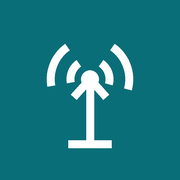
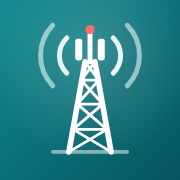
Нов дизайн: илюстрация на базова станция, нова икона, по-изчистени карти
- Начален екран с илюстрация (кула със сектори, радиорелейна връзка, сервизен бус), светла и тъмна версия
- Нова икона на приложението и знак в заглавието
- Фон с фина мрежа като на карта, по-меки карти, стрелка към обекта в режим „До мен“
- Илюстрация при празен резултат, радар при зареждане
- Без промени във функционалността

Claude-Session: https://claude.ai/code/session_01X5Ty6dojPMFwfPVWJ4GSS7

diff --git a/index.html b/index.html
@@ -20,7 +20,9 @@
   --waze:#0b7fa8; --waze-soft:#e2f2f8; --danger:#b3261e; --danger-soft:#fbe7e6; --warn:#8a5a00; --warn-soft:#fdf1d8;
   --p0:#c8323a; --p0s:#fbe9ea; --p1:#4b4fb4; --p1s:#ebebfa; --p2:#9a5b00; --p2s:#fbefdc;
   --p3:#2f7d32; --p3s:#e5f3e6; --p4:#a23a8a; --p4s:#f7e6f3; --p5:#4f6475; --p5s:#e8edf1;
-  --hl:#fff1b8; --scrim:rgba(12,18,24,.45);
+  --hl:#fff1b8; --scrim:rgba(12,18,24,.45); --dot:rgba(10,110,120,.07);
+  --il-sky1:#cfe9ec; --il-sky2:#f2f9fa; --il-sun:#ffd88a; --il-cloud:#ffffff; --il-hill2:#cbe1df; --il-hill1:#b2d2ce;
+  --il-city:#a7c5c2; --il-win:#eef7f6; --il-tower:#2f3d49; --il-tower2:#6d8391; --il-ant:#1c2731; --il-road:#8fb0ac; --il-shadow:rgba(20,40,50,.18);
   --shadow:0 1px 2px rgba(20,30,45,.05),0 2px 8px rgba(20,30,45,.04);
   --sans:-apple-system,BlinkMacSystemFont,"SF Pro Text","Segoe UI",Roboto,"Helvetica Neue",Arial,sans-serif;
   --mono:ui-monospace,"SF Mono",SFMono-Regular,Menlo,Consolas,monospace;
@@ -32,11 +34,14 @@
   --waze:#5cc3e6; --waze-soft:#14303b; --danger:#ff8a80; --danger-soft:#3a1a18; --warn:#f2c46b; --warn-soft:#3a2d10;
   --p0:#ff7b80; --p0s:#3a1d20; --p1:#a3a6ff; --p1s:#24254a; --p2:#f0b45a; --p2s:#3a2a12;
   --p3:#7fd283; --p3s:#183a1b; --p4:#f08fd8; --p4s:#3a1734; --p5:#a9bccb; --p5s:#26313a;
-  --hl:#5a4a10; --scrim:rgba(0,0,0,.6); --shadow:none; color-scheme:dark}}
+  --hl:#5a4a10; --scrim:rgba(0,0,0,.6); --shadow:none; --dot:rgba(120,200,210,.06);
+  --il-sky1:#0d2a31; --il-sky2:#141f27; --il-sun:#e8e2c6; --il-cloud:#22323b; --il-hill2:#18302f; --il-hill1:#1e3a3b;
+  --il-city:#25454b; --il-win:#e9c46a; --il-tower:#c3d2db; --il-tower2:#7d95a2; --il-ant:#e4eef4; --il-road:#35575c; --il-shadow:rgba(0,0,0,.45);
+  color-scheme:dark}}
 *{box-sizing:border-box}
 [hidden]{display:none!important}
 html{-webkit-text-size-adjust:100%}
-body{margin:0;background:var(--bg);color:var(--fg);font:16px/1.45 var(--sans);-webkit-font-smoothing:antialiased;min-height:100vh}
+body{margin:0;background-color:var(--bg);background-image:radial-gradient(var(--dot) 1.2px,transparent 1.3px);background-size:22px 22px;color:var(--fg);font:16px/1.45 var(--sans);-webkit-font-smoothing:antialiased;min-height:100vh}
 body::before{content:"";position:fixed;inset:0 0 auto;height:env(safe-area-inset-top,0px);z-index:10;background:var(--surface)}
 .wrap{max-width:720px;margin:0 auto}
 button{font-family:inherit}
@@ -44,8 +49,10 @@ button{font-family:inherit}
 header{position:sticky;top:0;z-index:5;background:var(--surface);border-bottom:1px solid var(--line);
   padding-top:calc(env(safe-area-inset-top,0px) + 10px);padding-bottom:10px;padding-left:max(16px,env(safe-area-inset-left,0px));padding-right:max(16px,env(safe-area-inset-right,0px))}
 .brand{display:flex;align-items:center;gap:10px;margin-bottom:10px}
-.mark{width:30px;height:30px;border-radius:8px;background:var(--accent);color:var(--accent-ink);display:grid;place-items:center;flex:none}
-.brand h1{font-size:18px;font-weight:700;margin:0;letter-spacing:-.01em}
+.mark{width:34px;height:34px;border-radius:10px;background:linear-gradient(150deg,var(--accent),color-mix(in srgb,var(--accent) 70%,#1fb5a8));color:var(--accent-ink);display:grid;place-items:center;flex:none;box-shadow:0 2px 8px color-mix(in srgb,var(--accent) 35%,transparent)}
+.mark .wv{animation:wv 2.6s ease-out infinite}.mark .w2{animation-delay:.35s}
+.brand h1{font-size:19px;font-weight:750;margin:0;letter-spacing:-.02em;line-height:1.1}
+.brand h1 small{display:block;font-size:11.5px;font-weight:500;letter-spacing:.02em;color:var(--muted)}
 #info{margin-left:auto;font-size:12.5px;color:var(--muted);font-variant-numeric:tabular-nums;text-align:right}
 #info b{color:var(--fg);font-weight:600}
 .iconbtn{width:38px;height:38px;border-radius:10px;border:1px solid var(--line);background:var(--surface);color:var(--fg);display:grid;place-items:center;cursor:pointer;flex:none}
@@ -74,6 +81,16 @@ header{position:sticky;top:0;z-index:5;background:var(--surface);border-bottom:1
 .nearbar b{font-family:var(--mono);font-weight:600}
 .nearbar button{margin-left:auto;flex:none;border:0;background:var(--surface);color:var(--fg);font:600 13px var(--sans);padding:7px 10px;border-radius:8px;cursor:pointer}
 .nearbar.err{background:var(--warn-soft)}
+.nearbar.live svg{animation:ping 1.8s ease-out infinite}
+@keyframes ping{0%{transform:scale(.85);opacity:.6}50%{transform:scale(1.08);opacity:1}100%{transform:scale(.85);opacity:.6}}
+@keyframes wv{0%{opacity:0}25%{opacity:1}100%{opacity:0}}
+@keyframes bl{0%,55%{opacity:.12}65%{opacity:.95}100%{opacity:.12}}
+@keyframes ln{to{stroke-dashoffset:-16}}
+@keyframes bob{0%,100%{transform:translateY(0)}50%{transform:translateY(-4px)}}
+.ill .wv{animation:wv 2.6s ease-out infinite}.ill .w2{animation-delay:.4s}.ill .w3{animation-delay:.8s}
+.ill .blink{animation:bl 2.2s linear infinite}.ill .link{animation:ln 1.1s linear infinite}
+.ill .pin{animation:bob 3s ease-in-out infinite;transform-box:fill-box;transform-origin:center}
+.spin.radar{border:2px solid currentColor;border-radius:50%;position:relative;animation:none;background:conic-gradient(from 0deg,transparent 0 70%,color-mix(in srgb,currentColor 55%,transparent) 100%);animation:sp 1.4s linear infinite}
 .nearbar.err svg{color:var(--warn)}
 .banner{display:flex;gap:10px;align-items:flex-start;margin-top:10px;padding:10px 12px;border-radius:10px;background:var(--warn-soft);font-size:13.5px;color:var(--fg)}
 .banner button{margin-left:auto;border:0;background:transparent;color:var(--muted);font-size:13px;cursor:pointer;flex:none}
@@ -81,10 +98,12 @@ header{position:sticky;top:0;z-index:5;background:var(--surface);border-bottom:1
 main{padding-top:14px;padding-bottom:calc(28px + env(safe-area-inset-bottom,0px));padding-left:max(16px,env(safe-area-inset-left,0px));padding-right:max(16px,env(safe-area-inset-right,0px))}
 #list{display:flex;flex-direction:column;gap:10px}
 
-.c{background:var(--surface);border:1px solid var(--line);border-radius:14px;padding:14px 14px 12px;box-shadow:var(--shadow);display:flex;flex-direction:column;gap:8px;min-width:0}
+.c{background:var(--surface);border:1px solid var(--line);border-radius:16px;padding:14px 14px 12px;box-shadow:var(--shadow);display:flex;flex-direction:column;gap:8px;min-width:0;transition:box-shadow .2s,border-color .2s}
+@media (hover:hover){.c:hover{border-color:color-mix(in srgb,var(--accent) 30%,var(--line));box-shadow:0 4px 18px rgba(15,40,50,.08)}}
+.dirx{display:inline-block;vertical-align:-2px;margin-right:2px}
 .c.origin{border-color:var(--accent);box-shadow:0 0 0 1px var(--accent)}
 .t{display:flex;align-items:center;gap:10px;min-width:0}
-.id{font:600 13.5px/1 var(--mono);letter-spacing:.02em;padding:6px 8px;border-radius:7px;background:var(--fg);color:var(--surface);flex:none}
+.id{font:600 13.5px/1 var(--mono);letter-spacing:.02em;padding:6px 8px 6px 7px;border-radius:7px;background:var(--fg);color:var(--surface);flex:none;display:inline-flex;align-items:center;gap:5px}
 .nm{font-weight:600;font-size:17px;letter-spacing:-.005em;min-width:0;overflow-wrap:anywhere;flex:1}
 .more-btn{flex:none;width:32px;height:32px;margin:-4px -6px -4px 0;border:0;background:transparent;color:var(--muted);border-radius:8px;cursor:pointer;display:grid;place-items:center}
 .more-btn:hover{background:var(--surface-2)}
@@ -127,17 +146,21 @@ textarea.inp{min-height:76px;resize:vertical;font:15px/1.4 var(--sans)}
 .b{display:flex;gap:8px;margin-top:4px;padding-top:10px;border-top:1px dashed var(--line)}
 .b a,.b button{display:inline-flex;align-items:center;justify-content:center;gap:7px;flex:1;text-decoration:none;font:600 15px/1 var(--sans);padding:12px 8px;border-radius:10px;border:0;cursor:pointer}
 .b a:active,.b button:active{transform:scale(.98)}
-.gm{background:var(--accent);color:var(--accent-ink)}
+.gm{background:linear-gradient(160deg,var(--accent),color-mix(in srgb,var(--accent) 80%,#000));color:var(--accent-ink)}
 .wz{background:var(--waze-soft);color:var(--waze)}
 .cp{flex:0 0 46px!important;background:transparent;border:1px solid var(--line)!important;color:var(--muted)}
 .cp.ok{color:var(--accent);border-color:var(--accent)!important}
 .more{display:block;width:100%;padding:13px;border:1px dashed var(--line);border-radius:12px;background:transparent;color:var(--fg);font:600 15px var(--sans);cursor:pointer}
 a:focus-visible,button:focus-visible{outline:2px solid var(--accent);outline-offset:2px}
 
-.empty{text-align:center;color:var(--muted);padding:48px 12px;display:flex;flex-direction:column;align-items:center;gap:10px}
+.empty{text-align:center;color:var(--muted);padding:36px 12px;display:flex;flex-direction:column;align-items:center;gap:8px}
+.empty svg.ill{width:150px;height:auto;margin-bottom:4px}
 .empty strong{color:var(--fg);font-size:16px}
-.welcome{background:var(--surface);border:1px solid var(--line);border-radius:16px;padding:22px 18px;display:flex;flex-direction:column;gap:14px}
-.welcome h2{margin:0;font-size:21px;letter-spacing:-.01em;text-wrap:balance}
+.welcome{background:var(--surface);border:1px solid var(--line);border-radius:20px;padding:0 18px 20px;display:flex;flex-direction:column;gap:14px;overflow:hidden;box-shadow:var(--shadow)}
+.hero{margin:0 -18px;display:block;line-height:0;border-bottom:1px solid var(--line)}
+.hero svg{width:100%;height:auto;display:block}
+.eyebrow{font:600 11.5px/1 var(--sans);letter-spacing:.12em;text-transform:uppercase;color:var(--accent);margin-top:6px}
+.welcome h2{margin:-6px 0 0;font-size:24px;letter-spacing:-.02em;line-height:1.15;text-wrap:balance}
 .welcome p{margin:0;color:var(--muted);font-size:14.5px}
 .lock{display:flex;gap:10px;align-items:flex-start;font-size:13.5px;color:var(--muted);background:var(--surface-2);border-radius:10px;padding:10px 12px}
 .lock svg{flex:none;color:var(--accent);margin-top:1px}
@@ -223,7 +246,7 @@ select.inp{background-image:linear-gradient(45deg,transparent 50%,var(--muted) 5
 .toast button{border:0;background:transparent;color:var(--accent-soft);font:700 14.5px var(--sans);cursor:pointer;padding:0}
 .spin{width:18px;height:18px;border:2.5px solid currentColor;border-right-color:transparent;border-radius:50%;animation:sp .8s linear infinite}
 @keyframes sp{to{transform:rotate(360deg)}}
-@media (prefers-reduced-motion:reduce){*{transition:none!important;animation-duration:2s!important}}
+@media (prefers-reduced-motion:reduce){*{transition:none!important;animation:none!important}.ill .wv,.mark .wv{opacity:.6}}
 </style>
 </head>
 <body>
@@ -231,9 +254,9 @@ select.inp{background-image:linear-gradient(45deg,transparent 50%,var(--muted) 5
   <div class="wrap">
     <div class="brand">
       <div class="mark" aria-hidden="true">
-        <svg width="18" height="18" viewBox="0 0 24 24" fill="none" stroke="currentColor" stroke-width="2" stroke-linecap="round" stroke-linejoin="round"><path d="M12 10v12"/><path d="M8.5 22h7"/><path d="M9 13l3-3 3 3"/><path d="M7.8 5.8a6 6 0 0 0 0 8.4"/><path d="M16.2 5.8a6 6 0 0 1 0 8.4"/><path d="M5 3a10 10 0 0 0 0 14"/><path d="M19 3a10 10 0 0 1 0 14"/><circle cx="12" cy="10" r="1.2" fill="currentColor"/></svg>
+        <svg width="22" height="22" viewBox="0 0 24 24" fill="none" stroke="currentColor" stroke-width="1.7" stroke-linecap="round" stroke-linejoin="round"><path d="M8.6 22 11 8.5M15.4 22 13 8.5M9.3 18.2h5.4M9.9 14.4h4.2M9.3 18.2l4.8-3.8M14.7 18.2l-4.8-3.8M10.5 10.9h3"/><path d="M12 8.5V4" stroke-width="1.9"/><rect x="9.6" y="5" width="1.6" height="4" rx=".5" fill="currentColor" stroke="none"/><rect x="12.8" y="5" width="1.6" height="4" rx=".5" fill="currentColor" stroke="none"/><path class="wv" d="M16.6 4.2a4.6 4.6 0 0 1 0 5.6M7.4 4.2a4.6 4.6 0 0 0 0 5.6"/><path class="wv w2" d="M19.2 2.4a8 8 0 0 1 0 9.2M4.8 2.4a8 8 0 0 0 0 9.2"/></svg>
       </div>
-      <h1>Обекти</h1>
+      <h1>Обекти<small>Базови станции · карта на терен</small></h1>
       <div id="info" aria-live="polite"></div>
       <button class="iconbtn" id="menuBtn" type="button" aria-label="База и импорт">
         <svg width="20" height="20" viewBox="0 0 24 24" fill="none" stroke="currentColor" stroke-width="2" stroke-linecap="round"><ellipse cx="12" cy="5.5" rx="7.5" ry="2.8"/><path d="M4.5 5.5v6.5c0 1.5 3.4 2.8 7.5 2.8s7.5-1.3 7.5-2.8V5.5"/><path d="M4.5 12v6.5c0 1.5 3.4 2.8 7.5 2.8s7.5-1.3 7.5-2.8V12"/></svg>
@@ -242,7 +265,7 @@ select.inp{background-image:linear-gradient(45deg,transparent 50%,var(--muted) 5
     <div class="searchrow">
       <div class="field">
         <svg class="s" width="18" height="18" viewBox="0 0 24 24" fill="none" stroke="currentColor" stroke-width="2.2" stroke-linecap="round"><circle cx="11" cy="11" r="7"/><path d="m20 20-3.5-3.5"/></svg>
-        <input id="q" type="search" placeholder="Номер, име или адрес…" autocomplete="off" autocapitalize="off" spellcheck="false" inputmode="search" aria-label="Търсене">
+        <input id="q" type="search" placeholder="Номер, име, адрес…" autocomplete="off" autocapitalize="off" spellcheck="false" inputmode="search" aria-label="Търсене">
         <button id="clr" type="button" aria-label="Изчисти" hidden><svg width="16" height="16" viewBox="0 0 24 24" fill="none" stroke="currentColor" stroke-width="2.4" stroke-linecap="round"><path d="M6 6l12 12M18 6 6 18"/></svg></button>
       </div>
       <button class="iconbtn" id="fBtn" type="button" aria-label="Филтри">
@@ -289,6 +312,7 @@ const num=n=>Number(n).toLocaleString('bg-BG');
 const R=Math.PI/180;
 function km(a,b){const la1=a.lat*R,la2=b.lat*R,dl=(b.lon-a.lon)*R,dp=la2-la1;const h=Math.sin(dp/2)**2+Math.cos(la1)*Math.cos(la2)*Math.sin(dl/2)**2;return 12742*Math.asin(Math.min(1,Math.sqrt(h)));}
 const fmtKm=d=>d<1?Math.round(d*100)*10+' м':(d<10?d.toFixed(1).replace('.',','):Math.round(d))+' км';
+function brg(a,b){const y=Math.sin((b.lon-a.lon)*R)*Math.cos(b.lat*R),x=Math.cos(a.lat*R)*Math.sin(b.lat*R)-Math.sin(a.lat*R)*Math.cos(b.lat*R)*Math.cos((b.lon-a.lon)*R);return (Math.atan2(y,x)/R+360)%360;}
 function dir(a,b){const y=Math.sin((b.lon-a.lon)*R)*Math.cos(b.lat*R),x=Math.cos(a.lat*R)*Math.sin(b.lat*R)-Math.sin(a.lat*R)*Math.cos(b.lat*R)*Math.cos((b.lon-a.lon)*R);
   const deg=(Math.atan2(y,x)/R+360)%360;return ['С','СИ','И','ЮИ','Ю','ЮЗ','З','СЗ'][Math.round(deg/45)%8];}
 const fx=n=>String(Math.round(n*1e6)/1e6);
@@ -386,7 +410,7 @@ function card(k){
  const det=LD.filter(d=>!d.badge&&has(d));
  if(det.length)h+=`<details class="det"><summary>Детайли · ${det.length}</summary><dl>${det.map(d=>`<dt>${esc(d.name)}</dt><dd>${fmtVal(d,xs[d.id])}</dd>`).join('')}</dl></details>`;
  h+=`<div class="meta">${r.own?`<span class="own ${OPCLS.get(ownerOf(r))||'p5'}">${hl(r.own)}</span>`:''}<span class="co">${ll}</span>`+
-   (o?(isOrigin?'<span class="dist origin">избран</span>':`<span class="dist">${fmtKm(km(o,r))}${near.type==='me'?' '+dir(o,r):''}</span>`):'')+
+   (o?(isOrigin?'<span class="dist origin">избран</span>':`<span class="dist">${near.type==='me'?`<svg class="dirx" width="11" height="11" viewBox="0 0 24 24" style="transform:rotate(${Math.round(brg(o,r))}deg)" aria-hidden="true"><path d="M12 2l7 19-7-4-7 4z" fill="currentColor"/></svg>`:''}${fmtKm(km(o,r))}${near.type==='me'?' '+dir(o,r):''}</span>`):'')+
    (isOrigin?'':`<button class="nb" type="button" data-near="${esc(r.k)}">${IC.near}Наблизо</button>`)+`</div>`;
  h+=`<div class="b"><a class="gm" href="https://www.google.com/maps/search/?api=1&query=${ll}" target="_blank" rel="noopener">${IC.map}Google Maps</a>`+
    `<a class="wz" href="https://waze.com/ul?ll=${ll}&navigate=yes" target="_blank" rel="noopener">${IC.nav}Waze</a>`+
@@ -396,9 +420,36 @@ function card(k){
 function fmtVal(d,v){v=String(v);
  if(d.type==='phone'){const tel=v.replace(/[^\d+]/g,'');return tel.length>=6?`<a href="tel:${esc(tel)}">${hl(v)}</a>`:hl(v);}
  return hl(v);}
+const ILL_HERO=`<svg class="ill" viewBox="0 0 360 196" role="img" aria-label="Базова станция с антени и радиорелейна връзка"><defs><linearGradient id="sky" x1="0" y1="0" x2="0" y2="1"><stop offset="0" style="stop-color:var(--il-sky1)"/><stop offset="1" style="stop-color:var(--il-sky2)"/></linearGradient></defs>
+<rect width="360" height="196" fill="url(#sky)"/>
+<circle cx="58" cy="46" r="15" style="fill:var(--il-sun)" opacity=".9"/>
+<g style="fill:var(--il-cloud)" opacity=".9"><path d="M246 38a9 9 0 0 1 17-3 7 7 0 0 1 11 6h-34a6 6 0 0 1 6-3z"/><path d="M92 74a7 7 0 0 1 13-2 6 6 0 0 1 9 5H86a5 5 0 0 1 6-3z"/></g>
+<path d="M0 150Q58 120 118 140T236 134T360 124V196H0Z" style="fill:var(--il-hill2)"/>
+<g style="stroke:var(--il-tower2)" fill="none" stroke-linecap="round"><path d="M298.0 138L303.5 104M314.0 138L308.5 104" stroke-width="1.6"/><path d="M298.0 138.0L312.2 126.7M314.0 138.0L299.8 126.7M299.8 126.7L312.2 126.7M299.8 126.7L310.3 115.3M312.2 126.7L301.7 115.3M301.7 115.3L310.3 115.3M301.7 115.3L308.5 104.0M310.3 115.3L303.5 104.0M303.5 104.0L308.5 104.0" stroke-width=".8"/><path d="M306 104V94" stroke-width="1.4"/></g>
+<ellipse cx="301.5" cy="108" rx="2.4" ry="4.6" style="fill:var(--il-tower2)"/>
+<path class="link" d="M203 86L299 108" fill="none" style="stroke:var(--accent)" stroke-width="1.6" stroke-dasharray="3 5" stroke-linecap="round"/>
+<g style="fill:var(--il-city)"><rect x="12" y="140" width="16" height="32" rx="1"/><rect x="30" y="124" width="22" height="48" rx="1"/><rect x="54" y="148" width="14" height="24" rx="1"/><rect x="70" y="132" width="20" height="40" rx="1"/><rect x="92" y="146" width="13" height="26" rx="1"/></g>
+<g style="fill:var(--il-win)"><rect x="34" y="130" width="3" height="3"/><rect x="40" y="130" width="3" height="3"/><rect x="46" y="136" width="3" height="3"/><rect x="34" y="142" width="3" height="3"/><rect x="74" y="138" width="3" height="3"/><rect x="80" y="144" width="3" height="3"/><rect x="16" y="146" width="3" height="3"/></g>
+<path d="M0 172Q90 160 180 171T360 166V196H0Z" style="fill:var(--il-hill1)"/>
+<path d="M0 187H360" style="stroke:var(--il-road)" stroke-width="1.6" stroke-dasharray="10 8"/>
+<g transform="translate(96 0)"><path d="M0 182v-9a3 3 0 0 1 3-3h17l6 5v7z" style="fill:var(--accent)"/><path d="M21 172.5l4 3.5h-4z" style="fill:var(--il-sky2)"/><path d="M3 169h14" style="stroke:var(--il-tower)" stroke-width="1.2"/><path d="M5 167v2M15 167v2" style="stroke:var(--il-tower)" stroke-width="1"/><circle cx="6" cy="183" r="2.8" style="fill:var(--il-tower)"/><circle cx="21" cy="183" r="2.8" style="fill:var(--il-tower)"/></g>
+<g style="stroke:var(--il-tower)" fill="none" stroke-linecap="round"><path d="M151.0 172L173.0 46M209.0 172L187.0 46" stroke-width="2.2"/><path d="M151.0 172.0L205.3 151.0M209.0 172.0L154.7 151.0M154.7 151.0L205.3 151.0M154.7 151.0L201.7 130.0M205.3 151.0L158.3 130.0M158.3 130.0L201.7 130.0M158.3 130.0L198.0 109.0M201.7 130.0L162.0 109.0M162.0 109.0L198.0 109.0M162.0 109.0L194.3 88.0M198.0 109.0L165.7 88.0M165.7 88.0L194.3 88.0M165.7 88.0L190.7 67.0M194.3 88.0L169.3 67.0M169.3 67.0L190.7 67.0M169.3 67.0L187.0 46.0M190.7 67.0L173.0 46.0M173.0 46.0L187.0 46.0" stroke-width="1"/><path d="M180 46V16" stroke-width="2"/></g>
+<rect x="162" y="47" width="36" height="3.2" rx="1" style="fill:var(--il-tower)"/>
+<g style="fill:var(--il-ant)"><rect x="162" y="25" width="6.5" height="22" rx="2"/><rect x="176.8" y="22" width="6.5" height="25" rx="2"/><rect x="191.5" y="25" width="6.5" height="22" rx="2"/></g>
+<ellipse cx="199" cy="85" rx="4" ry="8" style="fill:var(--il-ant)"/>
+<circle class="blink" cx="180" cy="13" r="7" fill="#e5484d"/><circle cx="180" cy="13" r="2.8" fill="#e5484d"/>
+<g fill="none" style="stroke:var(--accent)" stroke-width="2" stroke-linecap="round"><path class="wv" d="M201.3 21.1A26 26 0 0 1 201.3 50.9M158.7 21.1A26 26 0 0 0 158.7 50.9"/><path class="wv w2" d="M212.8 13.1A40 40 0 0 1 212.8 58.9M147.2 13.1A40 40 0 0 0 147.2 58.9"/><path class="wv w3" d="M224.2 5A54 54 0 0 1 224.2 67M135.8 5A54 54 0 0 0 135.8 67"/></g>
+<ellipse cx="262" cy="171" rx="6" ry="1.8" style="fill:var(--il-shadow)"/>
+<g class="pin"><path d="M262 167c0 0-8-8.5-8-14a8 8 0 0 1 16 0c0 5.5-8 14-8 14z" style="fill:var(--accent)"/><circle cx="262" cy="153" r="3" style="fill:var(--il-sky2)"/></g>
+</svg>`;
+const ILL_EMPTY=`<svg class="ill" viewBox="0 0 150 96" aria-hidden="true"><ellipse cx="75" cy="88" rx="52" ry="5" style="fill:var(--line)"/>
+<g style="stroke:var(--faint)" fill="none" stroke-linecap="round"><path d="M62 86L72 30M88 86L78 30" stroke-width="2"/><path d="M62 86L85 70M88 86L65 70M65 70H85M65 70L82 53M85 70L68 53M68 53H82M68 53L78 30M82 53L72 30" stroke-width="1"/><path d="M75 30V12" stroke-width="2"/></g>
+<g style="fill:var(--faint)"><rect x="66" y="16" width="4" height="13" rx="1.5"/><rect x="80" y="16" width="4" height="13" rx="1.5"/></g>
+<g fill="none" style="stroke:var(--faint)" stroke-width="2" stroke-linecap="round" stroke-dasharray="2 4"><path d="M92 10a20 20 0 0 1 0 24M58 10a20 20 0 0 0 0 24"/><path d="M101 3a32 32 0 0 1 0 38M49 3a32 32 0 0 0 0 38"/></g>
+<circle cx="108" cy="60" r="11" fill="none" style="stroke:var(--accent)" stroke-width="2.4"/><path d="M116 68l8 8" style="stroke:var(--accent)" stroke-width="3" stroke-linecap="round"/><path d="M104 60h8" style="stroke:var(--accent)" stroke-width="2.2" stroke-linecap="round"/></svg>`;
 function welcome(){
- list.innerHTML=`<section class="welcome"><h2>Добави обектите си</h2>
- <p>Базата се пази само на този телефон. Избери откъде да дойдат обектите.</p>
+ list.innerHTML=`<section class="welcome"><div class="hero">${ILL_HERO}</div><div class="eyebrow">Първи стъпки</div><h2>Добави обектите си</h2>
+ <p>Търсене по номер, име и адрес, навигация до всяка станция и обектите около теб. Базата се пази само на този телефон.</p>
  <div class="group">
   <button class="row" type="button" data-go="pkg">${IC.inbox}<span>Импорт на пакет<small>Заключен файл от колега или от друг твой телефон</small></span></button>
   <button class="row" type="button" data-go="table">${IC.table}<span>Импорт от Excel или CSV<small>Таблица с номер, име, адрес и координати</small></span></button>
@@ -414,7 +465,7 @@ function render(more){
  const old=$('#more');if(old)old.remove();
  list.insertAdjacentHTML('beforeend',h);shown=end;
  if(shown<res.length)list.insertAdjacentHTML('beforeend',`<button id="more" class="more" type="button">Покажи още ${Math.min(PAGE,res.length-shown)} · остават ${num(res.length-shown)}</button>`);
- if(!res.length)list.innerHTML='<div class="empty"><svg width="36" height="36" viewBox="0 0 24 24" fill="none" stroke="currentColor" stroke-width="1.6" stroke-linecap="round"><circle cx="11" cy="11" r="7"/><path d="m20 20-3.5-3.5M8.5 11h5"/></svg><strong>Няма намерени обекти</strong><span>Опитай с номер, име или улица'+(opF!=='all'?', или избери „Всички“':'')+(activeFilters().length?', или махни някой филтър':'')+'.</span></div>';
+ if(!res.length)list.innerHTML='<div class="empty">'+ILL_EMPTY+'<strong>Няма намерени обекти</strong><span>Опитай с номер, име или улица'+(opF!=='all'?', или избери „Всички“':'')+(activeFilters().length?', или махни някой филтър':'')+'.</span></div>';
 }
 function search(){
  const terms=norm(q.value.trim()).split(/\s+/).filter(Boolean);
@@ -455,7 +506,7 @@ function search(){
  try{localStorage.setItem('q',q.value);localStorage.setItem('op',opF)}catch(e){}
 }
 function updateNearbar(){
- nearbar.hidden=!near;nearbar.classList.toggle('err',!!(near&&near.type==='me'&&geoErr));
+ nearbar.hidden=!near;nearbar.classList.toggle('err',!!(near&&near.type==='me'&&geoErr));nearbar.classList.toggle('live',!!(near&&near.type==='me'&&me&&!geoErr));
  meBtn.classList.toggle('on',!!(near&&near.type==='me'));meBtn.setAttribute('aria-pressed',!!(near&&near.type==='me'));
  if(!near)return;
  if(near.type==='site')neartxt.innerHTML=`Най-близки до <b>${esc(near.id)}</b> ${esc(near.name||'')}`;
@@ -582,7 +633,7 @@ let toastT;
 function toast(msg,action,fn){const t=$('#toast');t.innerHTML=`<span>${esc(msg)}</span>`;
  if(action){const b=document.createElement('button');b.type='button';b.textContent=action;b.onclick=()=>{t.hidden=true;fn();};t.appendChild(b);}
  t.hidden=false;clearTimeout(toastT);toastT=setTimeout(()=>t.hidden=true,action?6000:3000);}
-function busy(text){return sheet(text,'<div style="display:flex;gap:12px;align-items:center;color:var(--muted)"><span class="spin"></span><span>Моля, изчакай…</span></div>');}
+function busy(text){return sheet(text,'<div style="display:flex;gap:12px;align-items:center;color:var(--accent)"><span class="spin radar" style="width:26px;height:26px"></span><span style="color:var(--muted)">Моля, изчакай…</span></div>');}
 
 /* ====================== menu ====================== */
 $('#menuBtn').onclick=openMenu;

diff --git a/sw.js b/sw.js
@@ -1,5 +1,5 @@
 // Caches only the app itself (code, icons, Excel module). The data never passes through here: it lives in IndexedDB on the phone.
-const V='obekti-v7';
+const V='obekti-v8';
 const FILES=['./','index.html','manifest.webmanifest','vendor/xlsx.full.min.js','icons/icon-180.png','icons/icon-192.png','icons/icon-512.png'];
 self.addEventListener('install',e=>{e.waitUntil(caches.open(V).then(c=>c.addAll(FILES)));self.skipWaiting();});
 self.addEventListener('activate',e=>{e.waitUntil(caches.keys().then(ks=>Promise.all(ks.filter(k=>k!==V).map(k=>caches.delete(k)))).then(()=>self.clients.claim()));});
